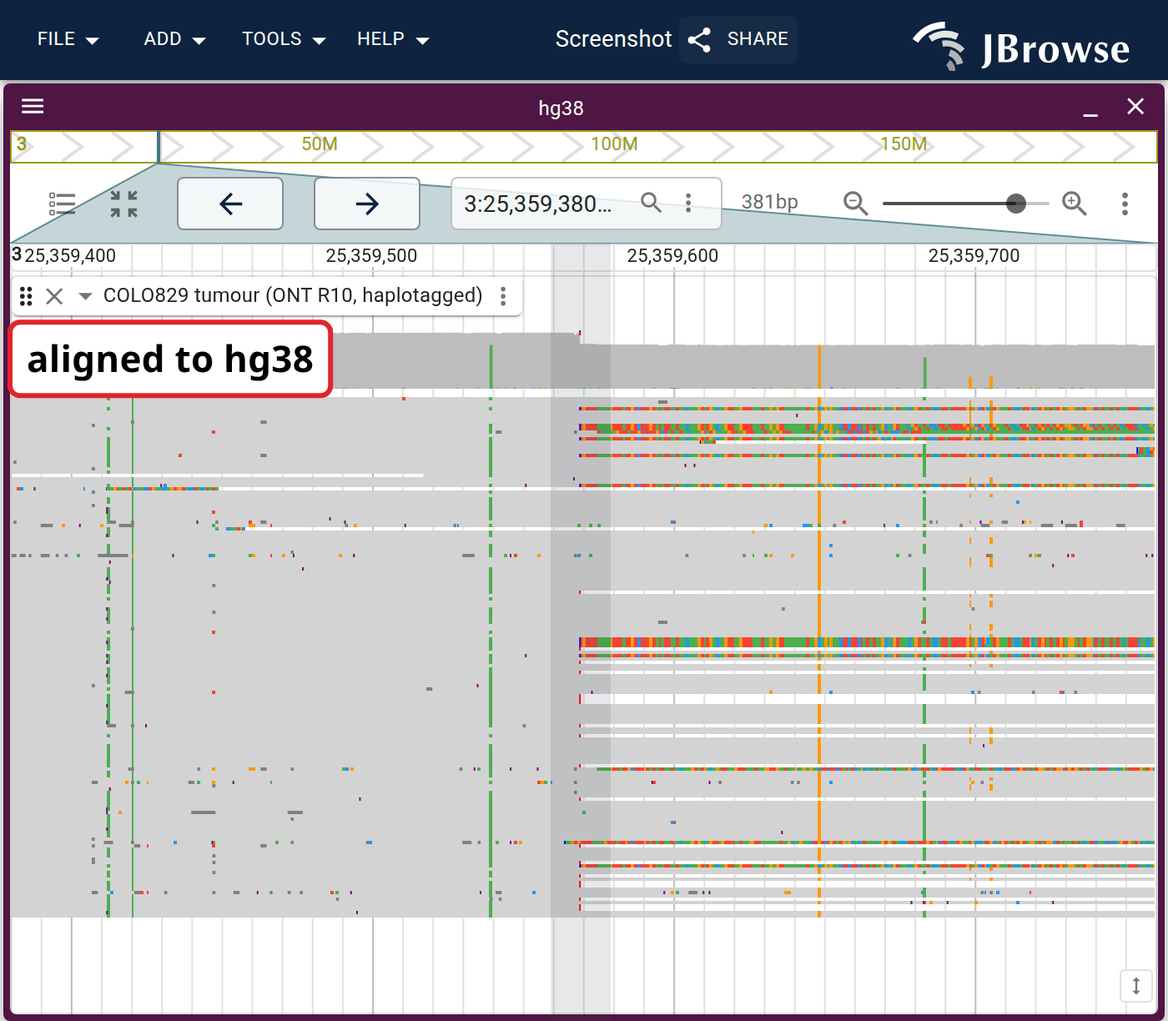
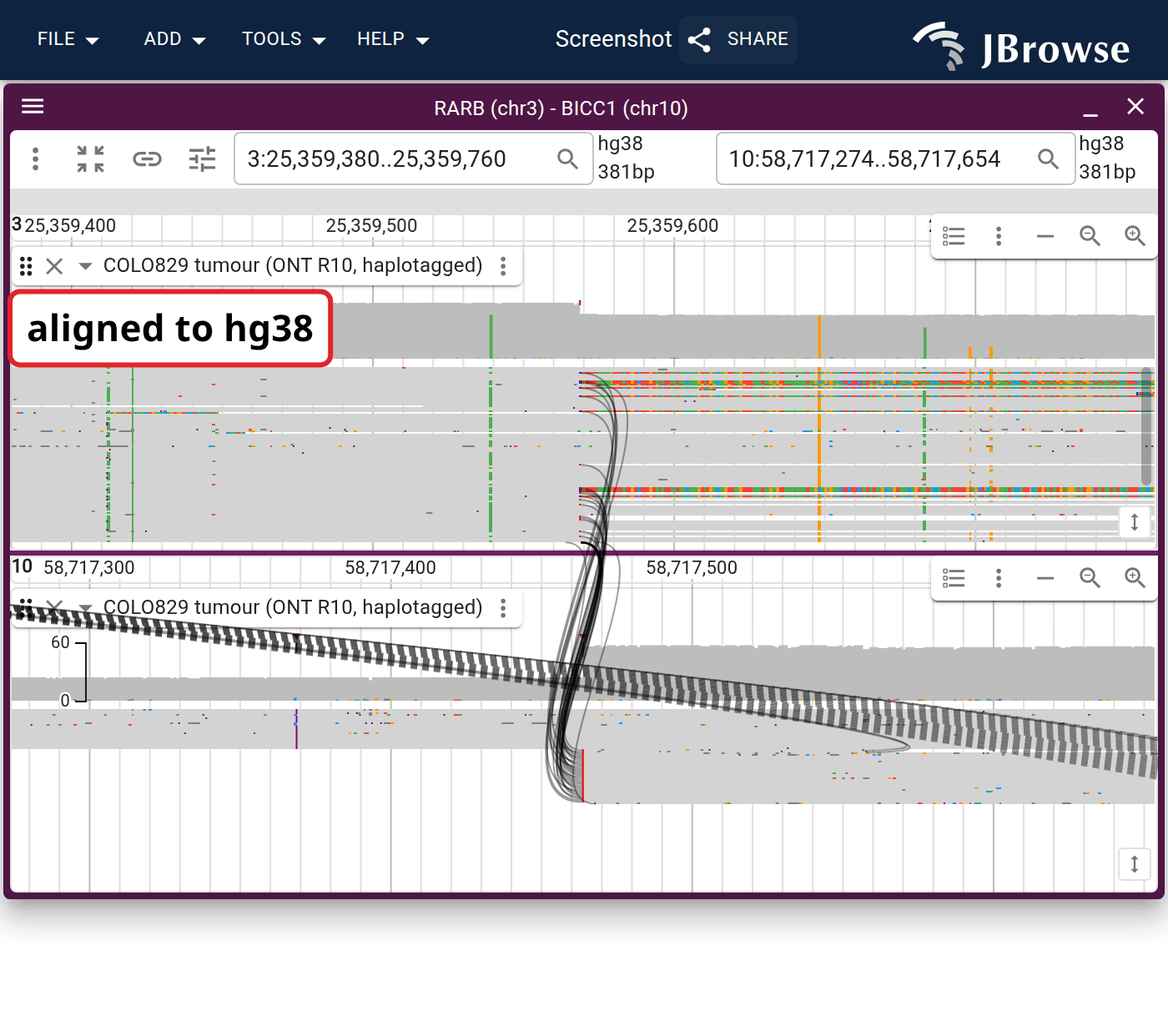
feat(cancer_sv): make the realigned-reads left half a breakpoint split view
Reviewer: "the left side should potentially show a breakpoint split
view, so that the user can see the split alignment from chr3 to chr10."
One pileup could only show half the event -- reads ending at 25,359,568
with their tails hanging off as clip, which says the molecules are torn
but never where the other piece went. The second panel is where it went,
and the curves between them are the same molecules drawn as one thing,
so the left pane now makes the claim the right pane answers.

Both panels are 380 bp, the window the derivative pane already used, so
the halves stay comparable base for base and the pileup fits.

Three things the spec had to learn, all commented in place: the panels
are `views` on a session spec and not `init` (the launcher rejects
`init` by name, which is the config/defaultSession form); a panel's
track height is capped by the split view's own `height`, so both move
together or nothing moves; and a `highlight` on a panel is dropped,
since only {loc, assembly, tracks} is forwarded.

Claude-Session: https://claude.ai/code/session_01W8e6oogBWtdKrxHNjvbvv2

diff --git a/website/src/lib/galleryLinks.generated.ts b/website/src/lib/galleryLinks.generated.ts
@@ -194,8 +194,8 @@ export const specSessionUrls: Record<string, string> = {
   "cancer_sv/derivative_synteny": "?config=https%3A%2F%2Fjbrowse.org%2Fdemos%2Fcancer_sv%2Fconfig.json&session=spec-%7B%22sessionTracks%22%3A%5B%7B%22type%22%3A%22FeatureTrack%22%2C%22trackId%22%3A%22der3_genes%22%2C%22name%22%3A%22Reference%20genes%20projected%20onto%20the%20derivative%22%2C%22assemblyNames%22%3A%5B%22der3_RARB_BICC1_TRHDE%22%5D%2C%22adapter%22%3A%7B%22type%22%3A%22FromConfigAdapter%22%2C%22features%22%3A%5B%7B%22uniqueId%22%3A%22RARB.seg0%22%2C%22refName%22%3A%22der3_RARB_BICC1_TRHDE%22%2C%22start%22%3A0%2C%22end%22%3A32732%2C%22strand%22%3A1%2C%22type%22%3A%22gene%22%2C%22name%22%3A%22RARB%22%2C%22subfeatures%22%3A%5B%7B%22uniqueId%22%3A%22NM_001290216.3.seg0%22%2C%22refName%22%3A%22der3_RARB_BICC1_TRHDE%22%2C%22start%22%3A0%2C%22end%22%3A32732%2C%22strand%22%3A1%2C%22type%22%3A%22transcript%22%2C%22name%22%3A%22NM_001290216.3%22%7D%2C%7B%22uniqueId%22%3A%22NM_001290300.2.seg0%22%2C%22refName%22%3A%22der3_RARB_BICC1_TRHDE%22%2C%22start%22%3A13980%2C%22end%22%3A32732%2C%22strand%22%3A1%2C%22type%22%3A%22transcript%22%2C%22name%22%3A%22NM_001290300.2%22%2C%22subfeatures%22%3A%5B%7B%22uniqueId%22%3A%22exon%3ANM_001290300.2.1.seg0%22%2C%22refName%22%3A%22der3_RARB_BICC1_TRHDE%22%2C%22start%22%3A13980%2C%22end%22%3A14070%2C%22strand%22%3A1%2C%22type%22%3A%22exon%22%7D%2C%7B%22uniqueId%22%3A%22CDS%3ANM_001290300.2.1.seg0%22%2C%22refName%22%3A%22der3_RARB_BICC1_TRHDE%22%2C%22start%22%3A14042%2C%22end%22%3A14070%2C%22strand%22%3A1%2C%22type%22%3A%22CDS%22%7D%2C%7B%22uniqueId%22%3A%22start_codon%3ANM_001290300.2.1.seg0%22%2C%22refName%22%3A%22der3_RARB_BICC1_TRHDE%22%2C%22start%22%3A14042%2C%22end%22%3A14045%2C%22strand%22%3A1%2C%22type%22%3A%22start_codon%22%7D%5D%7D%5D%7D%2C%7B%22uniqueId%22%3A%22LOC124906342.seg0%22%2C%22refName%22%3A%22der3_RARB_BICC1_TRHDE%22%2C%22start%22%3A9171%2C%22end%22%3A9237%2C%22strand%22%3A1%2C%22type%22%3A%22gene%22%2C%22name%22%3A%22LOC124906342%22%2C%22subfeatures%22%3A%5B%7B%22uniqueId%22%3A%22XR_007096298.1.seg0%22%2C%22refName%22%3A%22der3_RARB_BICC1_TRHDE%22%2C%22start%22%3A9171%2C%22end%22%3A9237%2C%22strand%22%3A1%2C%22type%22%3A%22transcript%22%2C%22name%22%3A%22XR_007096298.1%22%2C%22subfeatures%22%3A%5B%7B%22uniqueId%22%3A%22exon%3AXR_007096298.1.1.seg0%22%2C%22refName%22%3A%22der3_RARB_BICC1_TRHDE%22%2C%22start%22%3A9171%2C%22end%22%3A9237%2C%22strand%22%3A1%2C%22type%22%3A%22exon%22%7D%5D%7D%5D%7D%2C%7B%22uniqueId%22%3A%22BICC1.seg1%22%2C%22refName%22%3A%22der3_RARB_BICC1_TRHDE%22%2C%22start%22%3A32732%2C%22end%22%3A32931%2C%22strand%22%3A1%2C%22type%22%3A%22gene%22%2C%22name%22%3A%22BICC1%22%2C%22subfeatures%22%3A%5B%7B%22uniqueId%22%3A%22XM_047425780.1.seg1%22%2C%22refName%22%3A%22der3_RARB_BICC1_TRHDE%22%2C%22start%22%3A32732%2C%22end%22%3A32931%2C%22strand%22%3A1%2C%22type%22%3A%22transcript%22%2C%22name%22%3A%22XM_047425780.1%22%7D%5D%7D%2C%7B%22uniqueId%22%3A%22FAM133CP.seg1%22%2C%22refName%22%3A%22der3_RARB_BICC1_TRHDE%22%2C%22start%22%3A32732%2C%22end%22%3A32803%2C%22strand%22%3A1%2C%22type%22%3A%22gene%22%2C%22name%22%3A%22FAM133CP%22%2C%22subfeatures%22%3A%5B%7B%22uniqueId%22%3A%22NR_027508.1.seg1%22%2C%22refName%22%3A%22der3_RARB_BICC1_TRHDE%22%2C%22start%22%3A32732%2C%22end%22%3A32803%2C%22strand%22%3A1%2C%22type%22%3A%22transcript%22%2C%22name%22%3A%22NR_027508.1%22%2C%22subfeatures%22%3A%5B%7B%22uniqueId%22%3A%22exon%3ANR_027508.1.1.seg1%22%2C%22refName%22%3A%22der3_RARB_BICC1_TRHDE%22%2C%22start%22%3A32732%2C%22end%22%3A32803%2C%22strand%22%3A1%2C%22type%22%3A%22exon%22%7D%5D%7D%5D%7D%2C%7B%22uniqueId%22%3A%22TRHDE.seg2%22%2C%22refName%22%3A%22der3_RARB_BICC1_TRHDE%22%2C%22start%22%3A32932%2C%22end%22%3A33115%2C%22strand%22%3A-1%2C%22type%22%3A%22gene%22%2C%22name%22%3A%22TRHDE%22%2C%22subfeatures%22%3A%5B%7B%22uniqueId%22%3A%22XM_017019244.2.seg2%22%2C%22refName%22%3A%22der3_RARB_BICC1_TRHDE%22%2C%22start%22%3A32932%2C%22end%22%3A33115%2C%22strand%22%3A-1%2C%22type%22%3A%22transcript%22%2C%22name%22%3A%22XM_017019244.2%22%7D%2C%7B%22uniqueId%22%3A%22XM_005268819.6.seg2%22%2C%22refName%22%3A%22der3_RARB_BICC1_TRHDE%22%2C%22start%22%3A32932%2C%22end%22%3A33115%2C%22strand%22%3A-1%2C%22type%22%3A%22transcript%22%2C%22name%22%3A%22XM_005268819.6%22%2C%22subfeatures%22%3A%5B%7B%22uniqueId%22%3A%22exon%3AXM_005268819.6.1.seg2%22%2C%22refName%22%3A%22der3_RARB_BICC1_TRHDE%22%2C%22start%22%3A32932%2C%22end%22%3A33115%2C%22strand%22%3A-1%2C%22type%22%3A%22exon%22%7D%2C%7B%22uniqueId%22%3A%22CDS%3AXM_005268819.6.1.seg2%22%2C%22refName%22%3A%22der3_RARB_BICC1_TRHDE%22%2C%22start%22%3A32932%2C%22end%22%3A33115%2C%22strand%22%3A-1%2C%22type%22%3A%22CDS%22%7D%5D%7D%5D%7D%2C%7B%22uniqueId%22%3A%22TRHDE-AS1.seg2%22%2C%22refName%22%3A%22der3_RARB_BICC1_TRHDE%22%2C%22start%22%3A32932%2C%22end%22%3A33115%2C%22strand%22%3A1%2C%22type%22%3A%22gene%22%2C%22name%22%3A%22TRHDE-AS1%22%2C%22subfeatures%22%3A%5B%7B%22uniqueId%22%3A%22NR_026837.1.seg2%22%2C%22refName%22%3A%22der3_RARB_BICC1_TRHDE%22%2C%22start%22%3A32932%2C%22end%22%3A33115%2C%22strand%22%3A1%2C%22type%22%3A%22transcript%22%2C%22name%22%3A%22NR_026837.1%22%2C%22subfeatures%22%3A%5B%7B%22uniqueId%22%3A%22exon%3ANR_026837.1.1.seg2%22%2C%22refName%22%3A%22der3_RARB_BICC1_TRHDE%22%2C%22start%22%3A32932%2C%22end%22%3A33115%2C%22strand%22%3A1%2C%22type%22%3A%22exon%22%7D%5D%7D%5D%7D%2C%7B%22uniqueId%22%3A%22RARB.seg3%22%2C%22refName%22%3A%22der3_RARB_BICC1_TRHDE%22%2C%22start%22%3A33126%2C%22end%22%3A39549%2C%22strand%22%3A-1%2C%22type%22%3A%22gene%22%2C%22name%22%3A%22RARB%22%2C%22subfeatures%22%3A%5B%7B%22uniqueId%22%3A%22NM_001290216.3.seg3%22%2C%22refName%22%3A%22der3_RARB_BICC1_TRHDE%22%2C%22start%22%3A33126%2C%22end%22%3A39549%2C%22strand%22%3A-1%2C%22type%22%3A%22transcript%22%2C%22name%22%3A%22NM_001290216.3%22%7D%5D%7D%5D%7D%7D%5D%2C%22views%22%3A%5B%7B%22type%22%3A%22LinearSyntenyView%22%2C%22displayName%22%3A%22Reconstructed%20derivative%20allele%20vs%20hg38%22%2C%22views%22%3A%5B%7B%22assembly%22%3A%22hg38%22%2C%22loc%22%3A%22chr3%3A25325000-25361000%20chr10%3A58716500-58718500%20chr12%3A72272000-72274500%22%2C%22tracks%22%3A%5B%7B%22trackId%22%3A%22ncbi_refseq_hg38%22%2C%22geneGlyphMode%22%3A%22longestCoding%22%2C%22height%22%3A95%7D%5D%7D%2C%7B%22assembly%22%3A%22der3_RARB_BICC1_TRHDE%22%2C%22loc%22%3A%22der3_RARB_BICC1_TRHDE%3A1-39%2C549%22%2C%22tracks%22%3A%5B%22der3_segments%22%2C%7B%22trackId%22%3A%22der3_genes%22%2C%22geneGlyphMode%22%3A%22longestCoding%22%2C%22height%22%3A220%7D%2C%7B%22trackId%22%3A%22reads_vs_der3%22%2C%22height%22%3A290%2C%22featureHeight%22%3A5%7D%5D%7D%5D%2C%22tracks%22%3A%5B%5B%22der3_vs_hg38%22%5D%5D%2C%22drawCurves%22%3Atrue%2C%22levelHeights%22%3A%5B200%5D%7D%5D%7D&sessionName=Screenshot",
   "cancer_sv/derivative_inserts": "?config=https%3A%2F%2Fjbrowse.org%2Fdemos%2Fcancer_sv%2Fconfig.json&session=spec-%7B%22sessionTracks%22%3A%5B%7B%22type%22%3A%22FeatureTrack%22%2C%22trackId%22%3A%22der3_genes%22%2C%22name%22%3A%22Reference%20genes%20projected%20onto%20the%20derivative%22%2C%22assemblyNames%22%3A%5B%22der3_RARB_BICC1_TRHDE%22%5D%2C%22adapter%22%3A%7B%22type%22%3A%22FromConfigAdapter%22%2C%22features%22%3A%5B%7B%22uniqueId%22%3A%22RARB.seg0%22%2C%22refName%22%3A%22der3_RARB_BICC1_TRHDE%22%2C%22start%22%3A0%2C%22end%22%3A32732%2C%22strand%22%3A1%2C%22type%22%3A%22gene%22%2C%22name%22%3A%22RARB%22%2C%22subfeatures%22%3A%5B%7B%22uniqueId%22%3A%22NM_001290216.3.seg0%22%2C%22refName%22%3A%22der3_RARB_BICC1_TRHDE%22%2C%22start%22%3A0%2C%22end%22%3A32732%2C%22strand%22%3A1%2C%22type%22%3A%22transcript%22%2C%22name%22%3A%22NM_001290216.3%22%7D%2C%7B%22uniqueId%22%3A%22NM_001290300.2.seg0%22%2C%22refName%22%3A%22der3_RARB_BICC1_TRHDE%22%2C%22start%22%3A13980%2C%22end%22%3A32732%2C%22strand%22%3A1%2C%22type%22%3A%22transcript%22%2C%22name%22%3A%22NM_001290300.2%22%2C%22subfeatures%22%3A%5B%7B%22uniqueId%22%3A%22exon%3ANM_001290300.2.1.seg0%22%2C%22refName%22%3A%22der3_RARB_BICC1_TRHDE%22%2C%22start%22%3A13980%2C%22end%22%3A14070%2C%22strand%22%3A1%2C%22type%22%3A%22exon%22%7D%2C%7B%22uniqueId%22%3A%22CDS%3ANM_001290300.2.1.seg0%22%2C%22refName%22%3A%22der3_RARB_BICC1_TRHDE%22%2C%22start%22%3A14042%2C%22end%22%3A14070%2C%22strand%22%3A1%2C%22type%22%3A%22CDS%22%7D%2C%7B%22uniqueId%22%3A%22start_codon%3ANM_001290300.2.1.seg0%22%2C%22refName%22%3A%22der3_RARB_BICC1_TRHDE%22%2C%22start%22%3A14042%2C%22end%22%3A14045%2C%22strand%22%3A1%2C%22type%22%3A%22start_codon%22%7D%5D%7D%5D%7D%2C%7B%22uniqueId%22%3A%22LOC124906342.seg0%22%2C%22refName%22%3A%22der3_RARB_BICC1_TRHDE%22%2C%22start%22%3A9171%2C%22end%22%3A9237%2C%22strand%22%3A1%2C%22type%22%3A%22gene%22%2C%22name%22%3A%22LOC124906342%22%2C%22subfeatures%22%3A%5B%7B%22uniqueId%22%3A%22XR_007096298.1.seg0%22%2C%22refName%22%3A%22der3_RARB_BICC1_TRHDE%22%2C%22start%22%3A9171%2C%22end%22%3A9237%2C%22strand%22%3A1%2C%22type%22%3A%22transcript%22%2C%22name%22%3A%22XR_007096298.1%22%2C%22subfeatures%22%3A%5B%7B%22uniqueId%22%3A%22exon%3AXR_007096298.1.1.seg0%22%2C%22refName%22%3A%22der3_RARB_BICC1_TRHDE%22%2C%22start%22%3A9171%2C%22end%22%3A9237%2C%22strand%22%3A1%2C%22type%22%3A%22exon%22%7D%5D%7D%5D%7D%2C%7B%22uniqueId%22%3A%22BICC1.seg1%22%2C%22refName%22%3A%22der3_RARB_BICC1_TRHDE%22%2C%22start%22%3A32732%2C%22end%22%3A32931%2C%22strand%22%3A1%2C%22type%22%3A%22gene%22%2C%22name%22%3A%22BICC1%22%2C%22subfeatures%22%3A%5B%7B%22uniqueId%22%3A%22XM_047425780.1.seg1%22%2C%22refName%22%3A%22der3_RARB_BICC1_TRHDE%22%2C%22start%22%3A32732%2C%22end%22%3A32931%2C%22strand%22%3A1%2C%22type%22%3A%22transcript%22%2C%22name%22%3A%22XM_047425780.1%22%7D%5D%7D%2C%7B%22uniqueId%22%3A%22FAM133CP.seg1%22%2C%22refName%22%3A%22der3_RARB_BICC1_TRHDE%22%2C%22start%22%3A32732%2C%22end%22%3A32803%2C%22strand%22%3A1%2C%22type%22%3A%22gene%22%2C%22name%22%3A%22FAM133CP%22%2C%22subfeatures%22%3A%5B%7B%22uniqueId%22%3A%22NR_027508.1.seg1%22%2C%22refName%22%3A%22der3_RARB_BICC1_TRHDE%22%2C%22start%22%3A32732%2C%22end%22%3A32803%2C%22strand%22%3A1%2C%22type%22%3A%22transcript%22%2C%22name%22%3A%22NR_027508.1%22%2C%22subfeatures%22%3A%5B%7B%22uniqueId%22%3A%22exon%3ANR_027508.1.1.seg1%22%2C%22refName%22%3A%22der3_RARB_BICC1_TRHDE%22%2C%22start%22%3A32732%2C%22end%22%3A32803%2C%22strand%22%3A1%2C%22type%22%3A%22exon%22%7D%5D%7D%5D%7D%2C%7B%22uniqueId%22%3A%22TRHDE.seg2%22%2C%22refName%22%3A%22der3_RARB_BICC1_TRHDE%22%2C%22start%22%3A32932%2C%22end%22%3A33115%2C%22strand%22%3A-1%2C%22type%22%3A%22gene%22%2C%22name%22%3A%22TRHDE%22%2C%22subfeatures%22%3A%5B%7B%22uniqueId%22%3A%22XM_017019244.2.seg2%22%2C%22refName%22%3A%22der3_RARB_BICC1_TRHDE%22%2C%22start%22%3A32932%2C%22end%22%3A33115%2C%22strand%22%3A-1%2C%22type%22%3A%22transcript%22%2C%22name%22%3A%22XM_017019244.2%22%7D%2C%7B%22uniqueId%22%3A%22XM_005268819.6.seg2%22%2C%22refName%22%3A%22der3_RARB_BICC1_TRHDE%22%2C%22start%22%3A32932%2C%22end%22%3A33115%2C%22strand%22%3A-1%2C%22type%22%3A%22transcript%22%2C%22name%22%3A%22XM_005268819.6%22%2C%22subfeatures%22%3A%5B%7B%22uniqueId%22%3A%22exon%3AXM_005268819.6.1.seg2%22%2C%22refName%22%3A%22der3_RARB_BICC1_TRHDE%22%2C%22start%22%3A32932%2C%22end%22%3A33115%2C%22strand%22%3A-1%2C%22type%22%3A%22exon%22%7D%2C%7B%22uniqueId%22%3A%22CDS%3AXM_005268819.6.1.seg2%22%2C%22refName%22%3A%22der3_RARB_BICC1_TRHDE%22%2C%22start%22%3A32932%2C%22end%22%3A33115%2C%22strand%22%3A-1%2C%22type%22%3A%22CDS%22%7D%5D%7D%5D%7D%2C%7B%22uniqueId%22%3A%22TRHDE-AS1.seg2%22%2C%22refName%22%3A%22der3_RARB_BICC1_TRHDE%22%2C%22start%22%3A32932%2C%22end%22%3A33115%2C%22strand%22%3A1%2C%22type%22%3A%22gene%22%2C%22name%22%3A%22TRHDE-AS1%22%2C%22subfeatures%22%3A%5B%7B%22uniqueId%22%3A%22NR_026837.1.seg2%22%2C%22refName%22%3A%22der3_RARB_BICC1_TRHDE%22%2C%22start%22%3A32932%2C%22end%22%3A33115%2C%22strand%22%3A1%2C%22type%22%3A%22transcript%22%2C%22name%22%3A%22NR_026837.1%22%2C%22subfeatures%22%3A%5B%7B%22uniqueId%22%3A%22exon%3ANR_026837.1.1.seg2%22%2C%22refName%22%3A%22der3_RARB_BICC1_TRHDE%22%2C%22start%22%3A32932%2C%22end%22%3A33115%2C%22strand%22%3A1%2C%22type%22%3A%22exon%22%7D%5D%7D%5D%7D%2C%7B%22uniqueId%22%3A%22RARB.seg3%22%2C%22refName%22%3A%22der3_RARB_BICC1_TRHDE%22%2C%22start%22%3A33126%2C%22end%22%3A39549%2C%22strand%22%3A-1%2C%22type%22%3A%22gene%22%2C%22name%22%3A%22RARB%22%2C%22subfeatures%22%3A%5B%7B%22uniqueId%22%3A%22NM_001290216.3.seg3%22%2C%22refName%22%3A%22der3_RARB_BICC1_TRHDE%22%2C%22start%22%3A33126%2C%22end%22%3A39549%2C%22strand%22%3A-1%2C%22type%22%3A%22transcript%22%2C%22name%22%3A%22NM_001290216.3%22%7D%5D%7D%5D%7D%7D%5D%2C%22views%22%3A%5B%7B%22type%22%3A%22LinearSyntenyView%22%2C%22displayName%22%3A%22Two%20templated%20inserts%20join%20the%20chr3%20arms%22%2C%22views%22%3A%5B%7B%22assembly%22%3A%22hg38%22%2C%22loc%22%3A%22chr3%3A25358900-25359700%20chr10%3A58717380-58717740%20chr12%3A72273040-72273360%22%2C%22tracks%22%3A%5B%7B%22trackId%22%3A%22ncbi_refseq_hg38%22%2C%22geneGlyphMode%22%3A%22longestCoding%22%2C%22height%22%3A75%7D%2C%22hg38-ReferenceSequenceTrack%22%5D%7D%2C%7B%22assembly%22%3A%22der3_RARB_BICC1_TRHDE%22%2C%22loc%22%3A%22der3_RARB_BICC1_TRHDE%3A32%2C300-33%2C400%22%2C%22showAminoAcids%22%3Afalse%2C%22tracks%22%3A%5B%22der3_segments%22%2C%7B%22trackId%22%3A%22der3_genes%22%2C%22geneGlyphMode%22%3A%22longestCoding%22%2C%22height%22%3A130%7D%2C%22der3_RARB_BICC1_TRHDE-ReferenceSequenceTrack%22%2C%7B%22trackId%22%3A%22reads_vs_der3%22%2C%22height%22%3A250%2C%22featureHeight%22%3A5%7D%5D%7D%5D%2C%22tracks%22%3A%5B%5B%22der3_vs_hg38%22%5D%5D%2C%22drawCurves%22%3Atrue%2C%22levelHeights%22%3A%5B220%5D%7D%5D%7D&sessionName=Screenshot",
   "cancer_sv/split_view_from_breakend": "?config=https%3A%2F%2Fjbrowse.org%2Fdemos%2Fcancer_sv%2Fconfig.json&session=spec-%7B%22views%22%3A%5B%7B%22type%22%3A%22LinearGenomeView%22%2C%22assembly%22%3A%22hg38%22%2C%22loc%22%3A%22chr3%3A25%2C359%2C318-25%2C359%2C818%22%2C%22tracks%22%3A%5B%7B%22trackId%22%3A%22COLO829_somatic_sv%22%2C%22height%22%3A130%7D%2C%7B%22trackId%22%3A%22COLO829_tumor_ont%22%2C%22height%22%3A300%2C%22featureHeight%22%3A1%7D%5D%7D%5D%7D&sessionName=Screenshot",
-  "cancer_sv/realigned_reads_reference": "?config=https%3A%2F%2Fjbrowse.org%2Fdemos%2Fcancer_sv%2Fconfig.json&session=spec-%7B%22views%22%3A%5B%7B%22type%22%3A%22LinearGenomeView%22%2C%22assembly%22%3A%22hg38%22%2C%22loc%22%3A%22chr3%3A25%2C359%2C380-25%2C359%2C760%22%2C%22highlight%22%3A%5B%7B%22refName%22%3A%22chr3%22%2C%22start%22%3A25359558%2C%22end%22%3A25359578%2C%22color%22%3A%22rgba(60%2C65%2C72%2C0.12)%22%7D%5D%2C%22tracks%22%3A%5B%7B%22trackId%22%3A%22COLO829_tumor_ont%22%2C%22showSoftClipping%22%3Atrue%2C%22featureHeight%22%3A2%2C%22height%22%3A410%7D%5D%7D%5D%7D&sessionName=Screenshot",
-  "cancer_sv/realigned_reads_derivative": "?config=https%3A%2F%2Fjbrowse.org%2Fdemos%2Fcancer_sv%2Fconfig.json&session=spec-%7B%22views%22%3A%5B%7B%22type%22%3A%22LinearGenomeView%22%2C%22assembly%22%3A%22der3_RARB_BICC1_TRHDE%22%2C%22loc%22%3A%22der3_RARB_BICC1_TRHDE%3A32%2C545-32%2C925%22%2C%22highlight%22%3A%5B%7B%22refName%22%3A%22der3_RARB_BICC1_TRHDE%22%2C%22start%22%3A32722%2C%22end%22%3A32742%2C%22color%22%3A%22rgba(60%2C65%2C72%2C0.12)%22%7D%5D%2C%22tracks%22%3A%5B%7B%22trackId%22%3A%22der3_segments%22%2C%22height%22%3A70%7D%2C%7B%22trackId%22%3A%22reads_vs_der3%22%2C%22showSoftClipping%22%3Atrue%2C%22featureHeight%22%3A9%2C%22height%22%3A300%7D%5D%7D%5D%7D&sessionName=Screenshot",
+  "cancer_sv/realigned_reads_reference": "?config=https%3A%2F%2Fjbrowse.org%2Fdemos%2Fcancer_sv%2Fconfig.json&session=spec-%7B%22views%22%3A%5B%7B%22type%22%3A%22BreakpointSplitView%22%2C%22displayName%22%3A%22RARB%20(chr3)%20-%20BICC1%20(chr10)%22%2C%22height%22%3A560%2C%22views%22%3A%5B%7B%22assembly%22%3A%22hg38%22%2C%22loc%22%3A%22chr3%3A25%2C359%2C380-25%2C359%2C760%22%2C%22tracks%22%3A%5B%7B%22trackId%22%3A%22COLO829_tumor_ont%22%2C%22showSoftClipping%22%3Atrue%2C%22featureHeight%22%3A1%2C%22height%22%3A280%7D%5D%7D%2C%7B%22assembly%22%3A%22hg38%22%2C%22loc%22%3A%22chr10%3A58%2C717%2C274-58%2C717%2C654%22%2C%22tracks%22%3A%5B%7B%22trackId%22%3A%22COLO829_tumor_ont%22%2C%22showSoftClipping%22%3Atrue%2C%22featureHeight%22%3A1%2C%22height%22%3A150%7D%5D%7D%5D%7D%5D%7D&sessionName=Screenshot",
+  "cancer_sv/realigned_reads_derivative": "?config=https%3A%2F%2Fjbrowse.org%2Fdemos%2Fcancer_sv%2Fconfig.json&session=spec-%7B%22views%22%3A%5B%7B%22type%22%3A%22LinearGenomeView%22%2C%22assembly%22%3A%22der3_RARB_BICC1_TRHDE%22%2C%22loc%22%3A%22der3_RARB_BICC1_TRHDE%3A32%2C545-32%2C925%22%2C%22highlight%22%3A%5B%7B%22refName%22%3A%22der3_RARB_BICC1_TRHDE%22%2C%22start%22%3A32722%2C%22end%22%3A32742%2C%22color%22%3A%22rgba(60%2C65%2C72%2C0.12)%22%7D%5D%2C%22tracks%22%3A%5B%7B%22trackId%22%3A%22der3_segments%22%2C%22height%22%3A70%7D%2C%7B%22trackId%22%3A%22reads_vs_der3%22%2C%22showSoftClipping%22%3Atrue%2C%22featureHeight%22%3A9%2C%22height%22%3A308%7D%5D%7D%5D%7D&sessionName=Screenshot",
   "cancer_sv/k562_fusion_circle_all": "?config=https%3A%2F%2Fjbrowse.org%2Fdemos%2Fcancer_sv%2Fconfig.json&session=spec-%7B%22views%22%3A%5B%7B%22type%22%3A%22CircularView%22%2C%22assembly%22%3A%22hg38%22%2C%22displayedRegionNames%22%3A%5B%22chr1%22%2C%22chr2%22%2C%22chr3%22%2C%22chr4%22%2C%22chr5%22%2C%22chr6%22%2C%22chr7%22%2C%22chr8%22%2C%22chr9%22%2C%22chr10%22%2C%22chr11%22%2C%22chr12%22%2C%22chr13%22%2C%22chr14%22%2C%22chr15%22%2C%22chr16%22%2C%22chr17%22%2C%22chr18%22%2C%22chr19%22%2C%22chr20%22%2C%22chr21%22%2C%22chr22%22%2C%22chrX%22%2C%22chrY%22%2C%22chrM%22%5D%2C%22height%22%3A720%2C%22tracks%22%3A%5B%7B%22trackId%22%3A%22K562_star_fusion%22%2C%22strokeColor%22%3A%22jexl%3Aget(feature%2C'score')%20%3E%20100%20%3F%20'%23c62828'%20%3A%20'%239e9e9e'%22%7D%5D%7D%5D%7D&sessionName=Screenshot",
   "cancer_sv/k562_fusion_circle_pair": "?config=https%3A%2F%2Fjbrowse.org%2Fdemos%2Fcancer_sv%2Fconfig.json&session=spec-%7B%22views%22%3A%5B%7B%22type%22%3A%22CircularView%22%2C%22assembly%22%3A%22hg38%22%2C%22displayedRegionNames%22%3A%5B%22chr9%22%2C%22chr22%22%5D%2C%22height%22%3A720%2C%22tracks%22%3A%5B%7B%22trackId%22%3A%22K562_star_fusion%22%2C%22strokeColor%22%3A%22jexl%3Aget(feature%2C'score')%20%3E%20100%20%3F%20'%23c62828'%20%3A%20'%239e9e9e'%22%7D%5D%7D%5D%7D&sessionName=Screenshot",
   "cancer_sv/k562_bcr_abl_split": "?config=https%3A%2F%2Fjbrowse.org%2Fdemos%2Fcancer_sv%2Fconfig.json&session=spec-%7B%22views%22%3A%5B%7B%22type%22%3A%22LinearGenomeView%22%2C%22assembly%22%3A%22hg38%22%2C%22loc%22%3A%22chr22%3A23%2C286%2C000-23%2C293%2C000%20chr9%3A130%2C851%2C000-130%2C858%2C000%22%2C%22highlight%22%3A%5B%7B%22refName%22%3A%22chr22%22%2C%22start%22%3A23290313%2C%22end%22%3A23290513%7D%2C%7B%22refName%22%3A%22chr9%22%2C%22start%22%3A130853964%2C%22end%22%3A130854164%7D%5D%2C%22tracks%22%3A%5B%7B%22trackId%22%3A%22ncbi_refseq_hg38%22%2C%22geneGlyphMode%22%3A%22longestCoding%22%2C%22height%22%3A90%7D%2C%7B%22trackId%22%3A%22K562_isoseq%22%2C%22height%22%3A700%2C%22coverageHeight%22%3A190%2C%22showBezierConnections%22%3Atrue%2C%22showOnlySplitAlignments%22%3Atrue%2C%22featureHeight%22%3A2%7D%5D%7D%5D%7D&sessionName=Screenshot",

diff --git a/website/scripts/specs/cancer_sv.ts b/website/scripts/specs/cancer_sv.ts
@@ -129,23 +129,21 @@ const FUSION_ARC_COLOR =
 // Soft clipping is ON in both panes, which is what makes the comparison
 // honest: the right pane is not "clipping hidden", it is the same setting over
 // reads that have none to draw.
-// The chr3 -> chr10 junction as a 20 bp band in each assembly's own
-// coordinates. `derive`'s PAF puts derivative 0-32,732 (+) against
-// chr3:25,326,821-25,359,568, so the boundary is the same event at
-// 25,359,568 and at 32,732; the band is wide enough to be a mark rather than a
-// hairline at 380 bp across a 700 px pane.
-const JUNCTION_HL_COLOR = 'rgba(60,65,72,0.12)'
-const JUNCTION_HL_HG38 = {
-  refName: 'chr3',
-  start: 25359558,
-  end: 25359578,
-  color: JUNCTION_HL_COLOR,
-}
+// The junction as a 20 bp band in the derivative's own coordinates. `derive`'s
+// PAF puts derivative 0-32,732 (+) against chr3:25,326,821-25,359,568, so the
+// boundary is the same event at 25,359,568 and at 32,732; the band is wide
+// enough to be a mark rather than a hairline at 380 bp across a 700 px pane.
+//
+// Only this pane carries one. The reference pane is a split view, where the
+// curves converge on the junction and mark it better than a band would -- and
+// a band could not be drawn there anyway: BreakpointSplitView's `init` forwards
+// `{loc, assembly, tracks}` to each panel and nothing else, so a `highlight`
+// authored on a panel is dropped on the way through.
 const JUNCTION_HL_DER3 = {
   refName: 'der3_RARB_BICC1_TRHDE',
   start: 32722,
   end: 32742,
-  color: JUNCTION_HL_COLOR,
+  color: 'rgba(60,65,72,0.12)',
 }
 
 function realignedReadsPartSpecs(): ScreenshotSpec[] {
@@ -155,38 +153,90 @@ function realignedReadsPartSpecs(): ScreenshotSpec[] {
   // carried 150 px of blank inside a track taller than its own pileup, the
   // derivative pane cut 97 px off the bottom of the page), which is what the
   // generator's two size reports are for.
-  const HEIGHT = 612
+  //
+  // Two stacked panels now carry the left pane where one did, so the shared
+  // height is the split view's rather than the single pileup's.
+  // The split view's own height, and the derivative pane is then sized to meet
+  // it rather than the other way round: the left half's content is two panels
+  // and a bundle of curves, the right half's is 29 rows that can take any row
+  // height. Neither of the run's size reports fixes this number -- both measure
+  // the PAGE, and every miss here was inside a track. 566 came off the
+  // blank-below report and left the chr3 pileup on a scrollbar.
+  const HEIGHT = 615
   const WIDTH = 700
+  // Both panels of the split view draw their reads the same way on purpose:
+  // the comparison is between the two ENDS of one junction, so a difference in
+  // row height or in clipping between them would be a difference the data does
+  // not have. Super-compact because the depth is 200x and the curves have to
+  // leave the pileup they start from; at featureHeight 2 the top panel alone is
+  // taller than this whole pane.
+  //
+  // The HEIGHT each panel gets is not shared, though, and that is the same rule
+  // the panes themselves follow: chr3 carries the full tumour pileup and chr10
+  // carries only the reads whose tails land there, so equal track heights left
+  // 210 px of white under the lower pileup. Neither size report catches it --
+  // the blank is INSIDE the split view rather than below the fold.
+  const BREAKPOINT_READS = {
+    trackId: TUMOUR,
+    showSoftClipping: true,
+    ...SUPER_COMPACT,
+  }
   return [
     {
       mode: 'url',
       name: 'cancer_sv/realigned_reads_reference',
       viewportHeight: HEIGHT,
       viewportWidth: WIDTH,
-      url: lgvSession(CONFIG, {
-        assembly: 'hg38',
-        loc: 'chr3:25,359,380-25,359,760',
-        // The junction itself, in-app rather than as a drawn callout, and the
-        // same band in the other pane's coordinates. Both windows put it at 49%
-        // of their width, so side by side the two marks line up and a reader
-        // compares the same column twice.
-        highlight: [JUNCTION_HL_HG38],
-        tracks: [
+      // A BREAKPOINT SPLIT VIEW, not the single chr3 pileup this pane used to
+      // be (reviewer: "the left side should potentially show a breakpoint split
+      // view, so that the user can see the split alignment from chr3 to
+      // chr10"). One pileup could only show half the event: reads ending at
+      // 25,359,568 with their tails hanging off as clip, which says the
+      // molecules are torn but never where the other piece went. The second
+      // panel is where it went, and the curves between the panels are the same
+      // molecules drawn as one thing, so the left pane now makes the claim the
+      // right pane answers -- torn in two against hg38, continuous against the
+      // allele -- instead of leaving half of it to the caption.
+      url: sessionSpec(CONFIG, {
+        views: [
           {
-            trackId: TUMOUR,
-            showSoftClipping: true,
-            // 200x tumour depth: two pixels a row fits the pileup and still
-            // leaves the clipped tails' mismatch ticks distinguishable, which
-            // one pixel merges into a single coloured block
-            featureHeight: 2,
-            // the pileup's own size at this row height, measured off the render:
-            // taller is blank page under the reads rather than more of them
-            height: 410,
+            type: 'BreakpointSplitView',
+            displayName: 'RARB (chr3) - BICC1 (chr10)',
+            // THE VIEW'S OWN HEIGHT IS THE LEVER, and it is easy to miss: a
+            // panel's track height does apply (the two panels come out
+            // different sizes), but the split view lays its panels out inside
+            // `height` and scrolls them, so growing a track alone moves nothing
+            // on screen and only leaves blank page under the view. Both have to
+            // move together. `init` is NOT the spelling here -- the launcher
+            // takes the panels flat as `views` and rejects `init` by name,
+            // which is the config/defaultSession form.
+            height: 560,
+            views: [
+              {
+                assembly: 'hg38',
+                loc: 'chr3:25,359,380-25,359,760',
+                tracks: [{ ...BREAKPOINT_READS, height: 280 }],
+              },
+              {
+                assembly: 'hg38',
+                loc: 'chr10:58,717,274-58,717,654',
+                tracks: [{ ...BREAKPOINT_READS, height: 150 }],
+              },
+            ],
           },
         ],
       }),
-      readyText: '25,359',
-      readyTimeout: 90000,
+      // 380 bp a panel, which is the window the single pileup used and the same
+      // number of bases the derivative pane shows, so the two halves stay
+      // comparable base for base. It is also what makes the pileup fit: a 2 kb
+      // panel was tried and every read overlapping the wider window stacks, so
+      // the rows outgrew any height the panel could be given and the wall of
+      // clipping ran under a scrollbar.
+      // The connections rather than a delay -- the overlay publishes
+      // `<trackId>-loaded` only once a read has matches on BOTH panels, which
+      // is exactly the thing this pane exists to show.
+      readySelector: `[data-testid="${TUMOUR}-loaded"]`,
+      readyTimeout: 120000,
       settleMs: 15000,
       // Where each half's reads were aligned, on the half itself (reviewer: "if
       // it was shown how this was done, it is ideal e.g. text blurb saying
@@ -199,7 +249,18 @@ function realignedReadsPartSpecs(): ScreenshotSpec[] {
         {
           type: 'text',
           text: 'aligned to hg38',
-          anchor: { track: TUMOUR, fracY: 0, alignX: 'left', dx: 10, dy: 30 },
+          // `view: [0, 0]` is the split view's UPPER panel -- an anchor's view
+          // is a path, and both panels carry the same trackId, so without the
+          // path this resolves to whichever the session lists first by
+          // accident rather than on purpose.
+          anchor: {
+            view: [0, 0],
+            track: TUMOUR,
+            fracY: 0,
+            alignX: 'left',
+            dx: 10,
+            dy: 30,
+          },
         },
       ],
     },
@@ -225,8 +286,11 @@ function realignedReadsPartSpecs(): ScreenshotSpec[] {
             // same 380 bp of pileup
             featureHeight: 9,
             // all 29 rows, and no more: a height that shows twenty of them puts
-            // the rest behind a scrollbar, which reads as a pileup that stops
-            height: 300,
+            // the rest behind a scrollbar, which reads as a pileup that stops.
+            // Grown with the pane when the left half became two panels -- the
+            // rows get the extra height rather than the page, since `+append`
+            // would otherwise pad this half with white.
+            height: 308,
           },
         ],
       }),

diff --git a/website/docs/tutorials/cancer_sv.md b/website/docs/tutorials/cancer_sv.md
@@ -301,7 +301,7 @@ against the reference. Both tracks below are real alignments with soft clipping
 shown, over the same 380 bp of the event: `derive`'s realigned BAM on the
 derivative, and the tumour BAM on hg38.
 
-<Figure caption="Left: the tumour pileup against hg38 at chr3:25,359,568 with soft clipping shown, where the reads carrying the allele end and their tails hang off as mismatch-coloured clip. Right: the spanning reads realigned to the derivative across the same junction, clipping still on, crossing it at flat depth. The band marks the junction in each assembly's own coordinates." src="/img/cancer_sv/realigned_reads.png" links="hg38=cancer_sv/realigned_reads_reference,derivative=cancer_sv/realigned_reads_derivative" />
+<Figure caption="Left: a breakpoint split view of the tumour against hg38, chr3:25,359,568 above and chr10:58,717,464 below. The reads carrying the allele end at the junction with their tails hanging off as mismatch-coloured clip, and the curves are those same molecules continuing on chr10. Right: the spanning reads realigned to the derivative across the same junction, clipping still on, crossing it at flat depth with no curve to draw." src="/img/cancer_sv/realigned_reads.png" links="hg38=cancer_sv/realigned_reads_reference,derivative=cancer_sv/realigned_reads_derivative" />
 
 ## The transcript view
 
